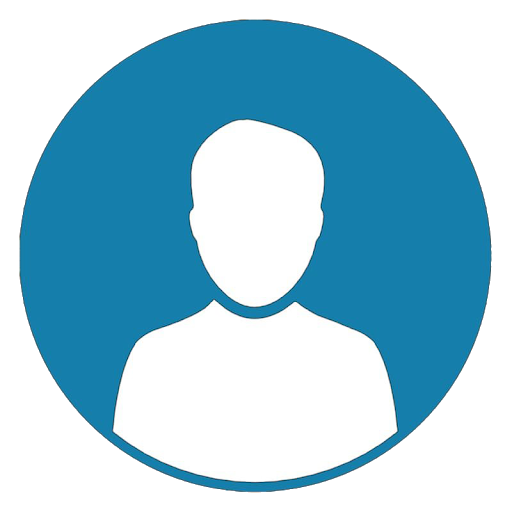
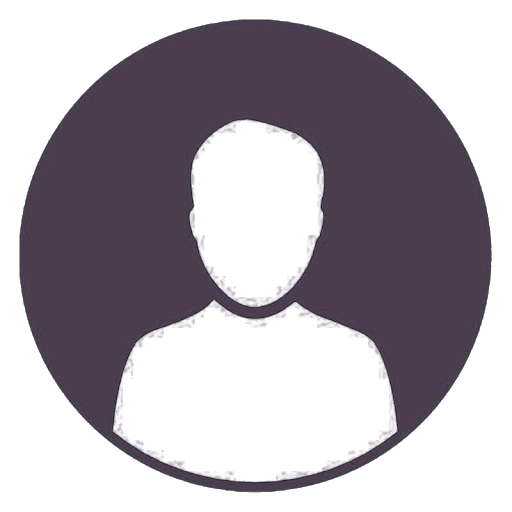
changing website color scheme

diff --git a/public/assets/css/footer.css b/public/assets/css/footer.css
@@ -1,10 +1,10 @@
-
-@media (max-width: 576px){
+@media (max-width: 576px) {
     .footer-padd {
         padding-left: 1rem !important;
         padding-bottom: 1em;
     }
 }
+
 .footer {
     margin-top: 50px;
     font-size: 16px;
@@ -18,11 +18,10 @@
     text-decoration: none !important;
     color: #777a7c
 }
-.site-footer{
-   
+
+.site-footer {
     background-color: #f1e9e9;
 }
-
 
 .description {
     font-size: 12px
@@ -35,7 +34,7 @@
 
 .fa-instagram {
     color: #e4405f;
-    font-size:20px;
+    font-size: 20px;
 }
 
 .fa-youtube {
@@ -51,21 +50,24 @@
 .footer-copyright p {
     margin-top: 10px
 }
+
 .shadow-sm {
-    box-shadow: 0 .125rem .25rem rgba(0,0,0,.075)!important;
+    box-shadow: 0 .125rem .25rem rgba(0, 0, 0, .075)!important;
 }
 
-.logo-footer{
+.logo-footer {
     height: 70px;
     width: 180px;
 }
+
 .footer-widget-heading h3 {
     color: #3d4246;
     font-size: 20px;
     font-weight: 600;
     margin-bottom: 40px;
     position: relative;
-  }
+}
+
 .footer-widget-heading h3::before {
     content: "";
     position: absolute;
@@ -73,33 +75,40 @@
     bottom: -15px;
     height: 2px;
     width: 50px;
-    background: #5ca1a1;
+    background: #3f3143;
 }
-.footer-padd{
-    padding-left:2rem;
+
+.footer-padd {
+    padding-left: 2rem;
     padding-right: 2rem;
     padding-bottom: 1em;
 }
-.copyright-area{
+
+.copyright-area {
     background: #202020;
     padding: 30px 0 15px 0
-  }
-  .copyright-text p {
+}
+
+.copyright-text p {
     margin: 0;
     font-size: 16px;
     color: #939393;
-  }
-  .copyright-text p a{
-    color:#5ca1a1;
-  }
-  .footer-menu li {
+}
+
+.copyright-text p a {
+    color: #5ca1a1;
+}
+
+.footer-menu li {
     display: inline-block;
     margin-left: 20px;
-  }
-  .footer-menu li:hover a{
-    color:#5ca1a1;
-  }
-  .footer-menu li a {
+}
+
+.footer-menu li:hover a {
+    color: #5ca1a1;
+}
+
+.footer-menu li a {
     font-size: 16px;
     color: #939393;
-  }
+}

diff --git a/public/assets/css/cart_pages.css b/public/assets/css/cart_pages.css
@@ -767,12 +767,12 @@ body,
 
 .block-header {
     padding: 1.2rem 1.5rem;
-    background-color: #313a43;
+    background-color: #3f3143;
 }
 
 .block-header h5 {
     font-weight: 600;
-    color: #5fbeaa;
+    color: #d29851;
 }
 
 .block-body {
@@ -780,12 +780,12 @@ body,
 }
 
 .form-group .field__input {
-    border: 1px solid #313a43;
+    border: 1px solid #3f3143;
 }
 
 .col-label {
     font-style: bold;
-    color: #313a43;
+    color: #3f3143;
     font-weight: 500;
 }
 
@@ -798,7 +798,7 @@ body,
     right: 39px;
     z-index: 98;
     padding: 21px;
-    background-color: #436076;
+    background-color: #3f3143;
 }
 
 .js .cd-top--fade-out {
@@ -924,7 +924,7 @@ body,
     border-radius: 50%;
     width: 35px;
     height: 25px;
-    background-color: #313a43;
+    background-color: #3f3143;
     color: white;
 }
 
